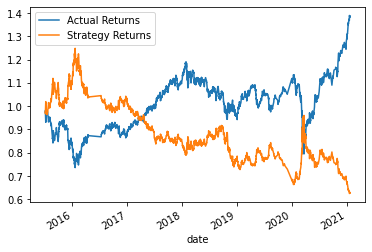
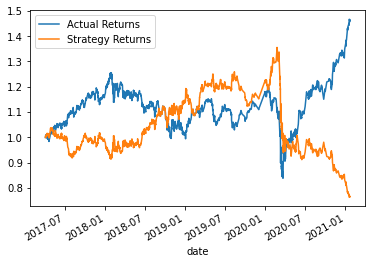
Added test models and readme

diff --git a/README.md b/README.md
@@ -1,1 +1,96 @@
 # Machine-Learning-Trading-Bot
+
+This application uses machine learning algorithms to generate predictive trading signals.  By using this application, investment firms can have sustained advantages in their abilities to adapt to the fast changing market environment real time.  
+
+---
+
+## Libraries and Dependancies
+
+This application leverages python 3.7 with the following packages:
+
+* [pandas](https://pandas.pydata.org/docs/) - an open source, BSD-licensed library providing high-performance, easy-to-use data structures and data analysis tools for the Python programming language.
+
+* [numpy](https://numpy.org/doc/stable/) - the fundamental package for scientific computing in Python. It is a Python library that provides a multidimensional array object, various derived objects (such as masked arrays and matrices), and an assortment of routines for fast operations on arrays, including mathematical, logical, shape manipulation, sorting, selecting, I/O, discrete Fourier transforms, basic linear algebra, basic statistical operations, random simulation and much more.
+
+* [pathlib](https://docs.python.org/3/library/pathlib.html) - a Python module which provides an object API for working with files and directories. The pathlib is a standard module. Path is the core object to work with files.
+
+* [hvplot](https://hvplot.holoviz.org/user_guide/Introduction.html) - provides a high-level plotting API built on HoloViews and Bokeh that provides a general and consistent API for plotting data in all the abovementioned formats.
+
+* [matplotlib](https://https://matplotlib.org/) - a comprehensive library for creating static, animated, and interactive visualizations in Python.
+
+* [scikit-learn](https://scikit-learn.org/stable/) - tools for predictive data analysis.
+
+* [sklearn.preprocessing](https://scikit-learn.org/stable/modules/preprocessing.html) - provides several common utility functions and transformer classes to change raw feature vectors into a representation that is more suitable for the downstream estimators.
+
+* [pandas.tseries.offsets](https://pandas.pydata.org/pandas-docs/stable/reference/api/pandas.tseries.offsets.DateOffset.html) - Standard kind of date increment used for a date range.
+
+* [sklearn.metrics](https://scikit-learn.org/stable/modules/classes.html#module-sklearn.metrics) - includes score functions, performance metrics and pairwise metrics and distance computations.
+
+*[sklearn.tree](https://scikit-learn.org/stable/modules/tree.html) - Decision Trees (DTs) are a non-parametric supervised learning method used for classification and regression. The goal is to create a model that predicts the value of a target variable by learning simple decision rules inferred from the data features. A tree can be seen as a piecewise constant approximation.
+
+---
+
+## Usage
+
+This application works in four steps:
+
+1. Establish a Baseline Performance
+
+2. Tune the Baseline Trading Algorithm
+
+3. Evaluate a New Machine Learning Classifier
+
+4. Create an Evaluation Report
+
+By using this application, an investment professional can find the best-fitting machine learning model for trading purposes.
+
+---
+
+## Evaluation Report
+
+The chart below shows that the baseline strategy (model 1) return outperforms actual returns by evaluating cummulative returns over the six years.  The cummulative strategy return outperformed cummulative actual return by 13.06%.
+
+![Plot](https://github.com/Jyou965/Machine-Learning-Trading-Bot/blob/main/svm.png)
+![Plot]()
+
+This strategy is generated with the following parameters:
+- the SVC classifier model from SKLearn's support vector machine (SVM) learning method;
+- using three months of data as training data and the remaining 69 months' data;
+- with SMA_Fast indicator being the simple moving average of 4 data points and SMA_Slow indicator being the simple moving average of 100 data points.
+
+By changing the training data scope from three months to 24 months while keeping all else equal (model 2), the predictive results improved to the following:
+![Plot]()
+The outperformance of the cummulative strategy over cummulative actual return widened to 17.86%.
+![Plot]()
+
+Such improvement in model 2 performance was due to increasing the training data range from 3 months to 24 months.
+
+Based on model 2, by increasing the SMA_Fast window to 200 datapoints (approx. 50 days) and increasing the SMA_Slow window to 800 datapoints (approx. 200 days), we generated model 3, with the following results:
+![Plot]()
+The outperformance of the cummulative strategy over cummulative actual return widened to 17.86%.
+![Plot]()
+
+Surprisingly, model 3 underperformed cummulative actual return by 102.27% due to increasing the windows of SMA indicators!  
+
+Finally, we establish model 4 by using the Decision Tree model, keeping the windows of SMA_Fast and SMA_Slow at 4 and 100 respectively, using 24 months as training period.  The model performance is demonstrated in the following charts.  
+![Plot]()
+
+Model 4 under-performed cummulative actual return by 70%!
+![Plot]()
+
+The conclusion is that 
+1. Decision Tree model is ill-suited for linear data as stock returns.  SVM model is a better fit.
+2. Longer training period of 24 months benefited the model performance.
+3. Windows for SMA indicators are best kept relatively short.
+
+---
+
+## Contributors
+
+Jackie You with the support of FinTech Boot Camp Staff
+
+---
+
+## License
+
+Berkeley
